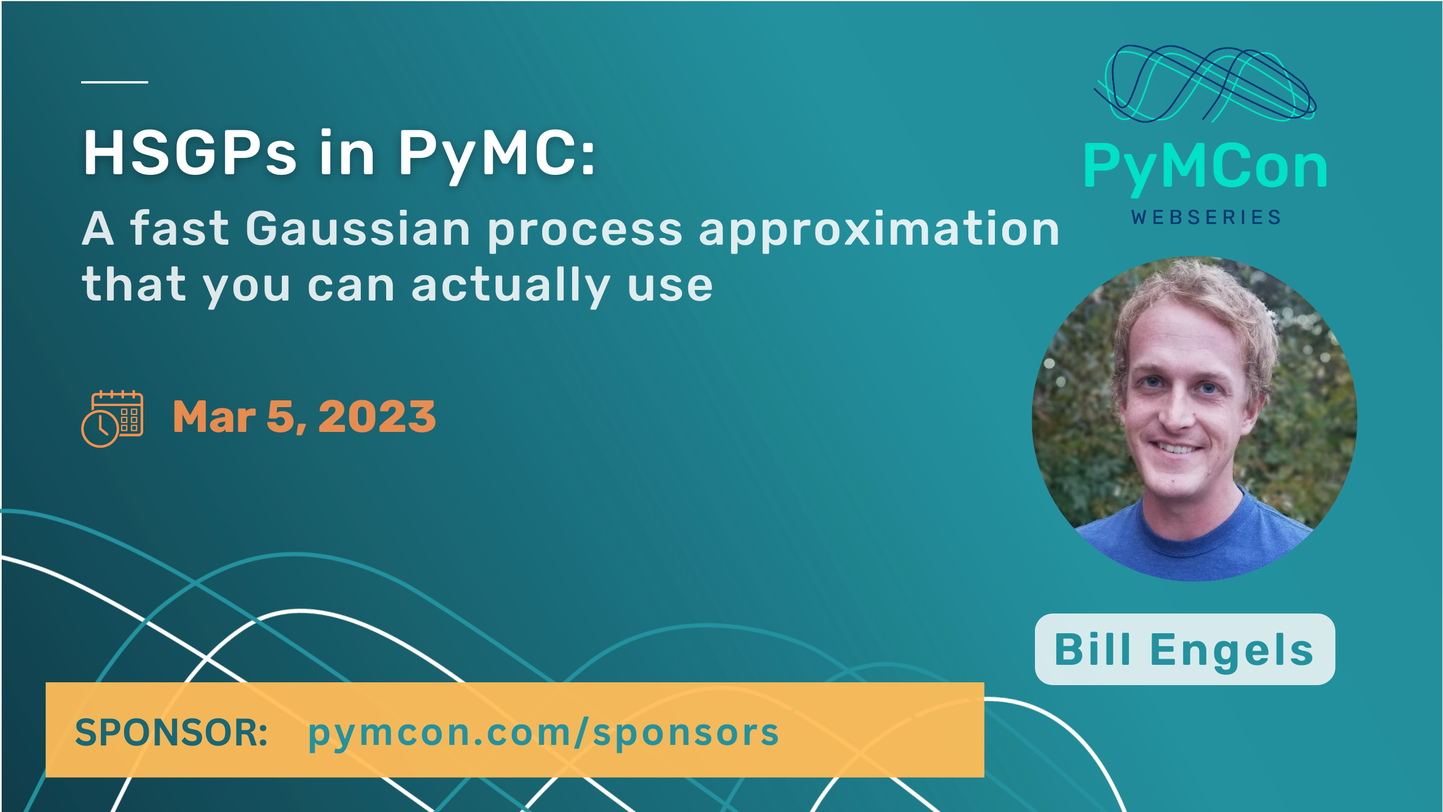
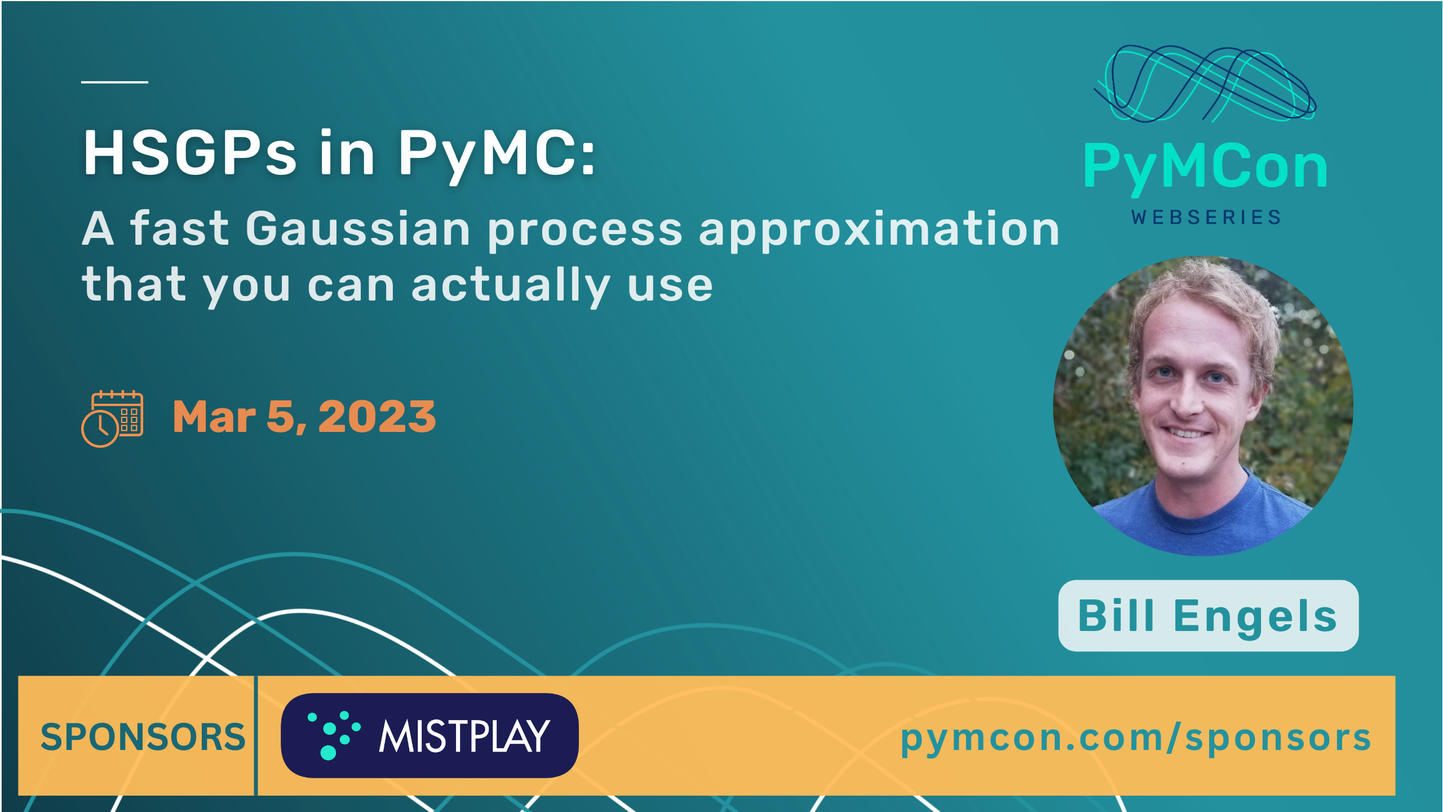
deploy: 1f3b7e2830f09dddaec6aa68d3b62c5098396a55

Changed region(s): [[0.0, 0.3125, 0.9688, 1.0]]

diff --git a/index.html b/index.html
@@ -6,11 +6,11 @@ Skip to main content
 <button id=close-menu-btn aria-label="Close Menu"><i class="uil uil-multiply"></i></button></div></nav></header><div id=main-content></div><header class=header><div class="container header__container"><div class=header__left><h1>PyMCon Web Series</h1><p>An Asynchronous-first virtual conference for the Bayesian community</p><p>We believe in building a community as much as we believe in building code. Come and join with us!</p><a href=https://pymcon.com/cfp/ class="btn btn-primary">Submit a Proposal</a></div><div class=header_right><div class=rocket><img src=./images/pymc-logo-350.png alt></div><div class=pulse><span style=--delay:1></span>
 <span style=--delay:2></span>
 <span style=--delay:3></span>
-<span style=--delay:4></span></div></div></div></header><section class="section events" id=featured_events><h2>PyMCon Events</h2><div class="container events__container"><div class="swiper eventCardSlider"><div class=swiper-wrapper><article class="event__card swiper-slide"><div class=event__header><img src=./images/events/pymcon-danh-phan.png alt><div class=event__wrapper><h4>Feb 21 2023, 22:00 UTC</h4><h3>An Introduction To Multi-Output Gaussian Processes Using PyMC</h3><span><i class="uil uil-map-marker"></i>Online</span></div></div><div class=event__details><p>The talk aims to get users quickly up and performing GPs, especially multi-output GPs using PyMC. Several examples with time-series datasets are used to illustrate different GPs features. This presentation will allow users to leverage GPs to analyze their data effectively.</p></div><div class=speaker__info><a href=https://www.linkedin.com/in/danhpt/ target=_blank><img src=./images/speakers/DanhPhan.jpg alt>
-<em>Danh Phan</em></a></div></article><article class="event__card swiper-slide"><div class=event__header><img src=./images/events/pymcon-bill-engels.png alt><div class=event__wrapper><h4>Mar 5 2023</h4><h3>HSGPs in PyMC: A fast Gaussian process approximation that you can actually use</h3><span><i class="uil uil-map-marker"></i>Online</span></div></div><div class=event__details><p>In this talk, Bill will introduce a PyMC Hilbert Space Gaussian Process (HSGP) implementation and show via case studies how it fills a few key gaps in the PyMC GP library: fast GPs as model subcomponents, and fast GPs with non-Gaussian likelihoods. I&rsquo;ll also cover tips and tricks for applying HSGPs effectively in practice.</p></div><div class=speaker__info><a href=https://www.linkedin.com/in/bill-engels-a5239a119/ target=_blank><img src=./images/speakers/bill-engels.jpg alt>
+<span style=--delay:4></span></div></div></div></header><section class="section events" id=featured_events><h2>PyMCon Events</h2><div class="container events__container"><div class="swiper eventCardSlider"><div class=swiper-wrapper><article class="event__card swiper-slide"><a href=https://discourse.pymc.io/t/pymcon-web-series-an-introduction-to-multi-output-gaussian-processes-using-pymc-feb-21st-10-pm-utc-2023/11395 target=_blank style=display:block;height:fit-content><div class=event__header><img src=./images/events/pymcon-danh-phan.png alt><div class=event__wrapper><h4>Feb 21 2023, 22:00 UTC</h4><h3>An Introduction To Multi-Output Gaussian Processes Using PyMC</h3><span><i class="uil uil-map-marker"></i>Online</span></div></div><div class=event__details><p>The talk aims to get users quickly up and performing GPs, especially multi-output GPs using PyMC. Several examples with time-series datasets are used to illustrate different GPs features. This presentation will allow users to leverage GPs to analyze their data effectively.</p></div></a><div class=speaker__info><a href=https://www.linkedin.com/in/danhpt/ target=_blank><img src=./images/speakers/DanhPhan.jpg alt>
+<em>Danh Phan</em></a></div><a href=https://discourse.pymc.io/t/pymcon-web-series-an-introduction-to-multi-output-gaussian-processes-using-pymc-feb-21st-10-pm-utc-2023/11395 target=_blank class="btn event__btn">Learn More</a></article><article class="event__card swiper-slide"><div class=event__header><img src=./images/events/pymcon-bill-engels.png alt><div class=event__wrapper><h4>Mar 5 2023</h4><h3>HSGPs in PyMC: A fast Gaussian process approximation that you can actually use</h3><span><i class="uil uil-map-marker"></i>Online</span></div></div><div class=event__details><p>In this talk, Bill will introduce a PyMC Hilbert Space Gaussian Process (HSGP) implementation and show via case studies how it fills a few key gaps in the PyMC GP library: fast GPs as model subcomponents, and fast GPs with non-Gaussian likelihoods. I&rsquo;ll also cover tips and tricks for applying HSGPs effectively in practice.</p></div><div class=speaker__info><a href=https://www.linkedin.com/in/bill-engels-a5239a119/ target=_blank><img src=./images/speakers/bill-engels.jpg alt>
 <em>Bill Engels</em></a></div></article><article class="event__card swiper-slide"><div class=event__header><img src=./images/events/pymcon-sandra-meneses.png alt><div class=event__wrapper><h4>Mar 15 2023</h4><h3>Scalable Bayesian Modelling: A practical comparison</h3><span><i class="uil uil-map-marker"></i>Online</span></div></div><div class=event__details><p>Let&rsquo;s dig deep into the new options that PyMC has to boost its performance comparing it with other Probabilistic programming frameworks. You will see how to get adequate performance for use cases with large datasets in production.</p></div><div class=speaker__info><a href=https://www.linkedin.com/in/symeneses/ target=_blank><img src=./images/speakers/sandra_meneses.jpg alt>
 <em>Sandra Yojana Meneses</em></a></div></article><article class="event__card swiper-slide"><div class=event__header><img src=./images/events/pymcon-hyosub-kim.png alt><div class=event__wrapper><h4>Apr 2 2023</h4><h3>The Bayesian Statistics Toolbox: Building a robust, replicable Bayesian workflow for the behavioral and neural sciences</h3><span><i class="uil uil-map-marker"></i>Online</span></div></div><div class=event__details><p></p></div><div class=speaker__info><a href=https://osf.io/y75ud/wiki/home/ target=_blank><img src=./images/speakers/hyosub_kim.jpeg alt>
-<em>Hyosub Kim</em></a></div></article><article class="event__card swiper-slide"><a href=https://discourse.pymc.io/t/pymcon-web-series-the-power-of-bayes-in-industry-your-business-model-is-your-data-generating-process/11264 target=_blank style=display:block;height:fit-content><div class=event__header><img src=./images/events/pymcon-Dante.jpeg alt><div class=event__wrapper><h4>Feb 9 2023, 21:00 UTC (4pm ET)</h4><h3>The Power of Bayes in Industry: Your Business Model is Your Data Generating Process</h3><span><i class="uil uil-map-marker"></i>Online</span></div></div><div class=event__details><p>This talk will attempt to answer the question what is a Data Generating Process and why does it matter? While we will begin our discussion with a bit of theory, don&rsquo;t worry about this being too technical or inaccessible if you&rsquo;re new to Bayesian Statistics. Our primary goal is to focus on the second half of the question and give you tools to use for real-world applications.</p></div></a><div class=speaker__info><a href=https://www.linkedin.com/in/dante-gates/ target=_blank><img src=./images/speakers/dante-gates-hs.png alt>
+<em>Hyosub Kim</em></a></div></article><article class="event__card swiper-slide"><a href=https://discourse.pymc.io/t/pymcon-web-series-the-power-of-bayes-in-industry-your-business-model-is-your-data-generating-process/11264 target=_blank style=display:block;height:fit-content><div class=event__header><img src=./images/events/pymcon-dante-gates.png alt><div class=event__wrapper><h4>Feb 9 2023, 21:00 UTC (4pm ET)</h4><h3>The Power of Bayes in Industry: Your Business Model is Your Data Generating Process</h3><span><i class="uil uil-map-marker"></i>Online</span></div></div><div class=event__details><p>This talk will attempt to answer the question what is a Data Generating Process and why does it matter? While we will begin our discussion with a bit of theory, don&rsquo;t worry about this being too technical or inaccessible if you&rsquo;re new to Bayesian Statistics. Our primary goal is to focus on the second half of the question and give you tools to use for real-world applications.</p></div></a><div class=speaker__info><a href=https://www.linkedin.com/in/dante-gates/ target=_blank><img src=./images/speakers/dante-gates-hs.png alt>
 <em>Dante Gates</em></a></div><a href=https://discourse.pymc.io/t/pymcon-web-series-the-power-of-bayes-in-industry-your-business-model-is-your-data-generating-process/11264 target=_blank class="btn event__btn">Learn More</a></article></div><div class="swiper-pagination event-pagination"></div></div></div></section><section class="section golas"><div class="container golas__container"><div class=golas__left><h2>OUR GOALS</h2><p>We believe that the PyMC project is more than just a codebase. It is also a community that is interested not only in statistical methods and code, but also in sharing knowledge and helping others - whether they be Bayesian veterans or new to the world of open source. The purpose of this conference is to better our community, just as we better our code .</p><a href=https://pymcon.com/about/ class=btn>Learn More</a></div><div class=golas__right><article class=goal><span class=goal__icon><i class="uil uil-crosshair"></i></span><h3>Create a space</h3><p>Create a space and time for community members to meet each other & interact</p></article><article class=goal><span class=goal__icon><i class="uil uil-crosshair"></i></span><h3>Record & organize</h3><p>Record and organize the expertise and experience in the PyMC community</p></article><article class=goal><span class=goal__icon><i class="uil uil-crosshair"></i></span><h3>Enable contributions</h3><p>Help folks find ways to contribute to PyMC, authentic to themselves</p></article><article class=goal><span class=goal__icon><i class="uil uil-crosshair"></i></span><h3>Develop the community</h3><p>Helps folks learn and grow</p></article></div></div></section><section class="section subscribe"><div class="container subscribe__container"><div class=subscribe__text><h2>Join the PyMC Discourse to stay updated</h2><p>Other than this website the place to stay updated is the PyMC Discourse.
 All the latest announcements will be shared there</p></div><a href=https://discourse.pymc.io/c/events/pymcon-web-series/23 class="btn subscribe__btn">Take me to the Discourse</a></div></section><section class="section supports" id=donate_support><h2>Support/Donations</h2><p>The donations will be handled by NumFOCUS which is 501(c)(3) non profit and manages all finances for PyMC</p><div class="container supports__container"><article class=support><span class=support__icon><i class="fas fa-hand-holding-heart"></i></span><h3>PyMC Open Collective</h3><span class=support__info>Payment Options:</span><p>Credit Card</p><span class=support__info>Pros:</span><p>Your company name appears as a donor</p><a href=https://opencollective.com/pymc target=_blank class=donate__btn>Donate Now</a></article><article class=support><span class=support__icon><i class="fas fa-parachute-box"></i></span><h3>NumFOCUS</h3><span class=support__info>Payment Options:</span><p>Credit Card, eCheck, PayPal</p><span class=support__info>Pros:</span><p>Your name appears in annual report</p><a href=https://numfocus.org/donate-to-pymc target=_blank class=donate__btn>Donate Now</a></article><article class=support><span class=support__icon><i class="fas fa-handshake"></i></span><h3>Benevity</h3><p>If your company uses Benevity, please consider making a contribution to the PyMC project.</p><p><span class=support__info>Note:</span> This link is viewable for registered users of Benevity</p><a href=https://causes.benevity.org/causes/840-454547709/project/4M4BXZF5F1 target=_blank class=donate__btn>Donate Now</a></article><article class=support><span class=support__icon><i class="fas fa-gift"></i></span><h3>Support</h3><p>You can also support the PyMC project by purchasing swag from our official store. All net proceeds go to the project.</p><a href="https://numfocus.myspreadshop.com/pymc+official+logo?idea=61f03c1df33f941d0307b965" target=_blank class=donate__btn>Buy Now</a></article></div></section><footer class=footer id=footer><div class=container></div><div class="container footer__container"><div class=footer__1><div class=footer__logo><img src=./images/pymcon_logo_white.png alt></div><p>PyMCon is a totally volunteer run conference with help from people like you.</p></div><div class=footer__2><h2>Permalinks</h2><ul class=permalinks><li><a href=./cfp/>CFP</a></li><li><a href=./events/>Events</a></li><li><a href=./codeofconduct/>Code of Conduct</a></li></ul></div><div class=footer__3><h2>Useful Links</h2><ul class=permalinks><li><a href=https://pymc-devs.github.io/pymcon target=_blank>PyMCon 2020 events</a></li><li><a href=https://github.com/pymc-devs/pymcon_web_series_website target=_blank>GitHub repository</a></li><li><a href=https://github.com/pymc-devs/brand target=_blank>Logo & Branding guide</a></li></ul></div><div class=footer__4><h2>Follow Us</h2><ul class=footer__socials><li><a href=https://discourse.pymc.io/c/events/pymcon-web-series/23 target=_blank aria-label="PyMC discourse"><i class="uil uil-comment-alt-lines"></i></a></li><li><a href=https://twitter.com/pymc_devs target=_blank aria-label="PyMC twitter account"><i class="uil uil-twitter"></i></a></li><li><a href=https://www.linkedin.com/company/pymc target=_blank aria-label="PyMC linkedin page"><i class="uil uil-linkedin-alt"></i></a></li><li><a href=https://www.youtube.com/c/PyMCDevelopers target=_blank aria-label="PyMC youtube channel"><i class="uil uil-youtube"></i></a></li><li><a href=https://github.com/pymc-devs/pymcon_web_series_website target=_blank aria-label="PyMC github"><i class="uil uil-github"></i></a></li><li><a href=https://www.meetup.com/pymc-online-meetup/ target=_blank aria-label="PyMC meetup group"><i class="fa fa-meetup"></i></a></li></ul></div></div><div class=footer__copyright><small>&copy; 2022 PyMC Team</small></div></footer><script type=text/javascript src=https://pymcon.com/js/main.js></script>
 <script src=./js/animation_script.js></script>

diff --git a/events/index.html b/events/index.html
@@ -3,11 +3,11 @@
 <link rel=apple-touch-icon sizes=180x180 href=../images/favicon/apple-touch-icon.png><link rel=icon type=image/png sizes=32x32 href=../images/favicon/favicon-32x32.png><link rel=icon type=image/png sizes=16x16 href=../images/favicon/favicon-16x16.png><link rel=manifest href=../images/favicon/site.webmanifest><meta property="og:title" content="PyMCon Events"><meta property="og:description" content="Join us to explore the cutting-edge development of PyMC, with talks from industry leaders and ample opportunity to connect with like-minded individuals. Don't miss out on this exciting event!"><meta property="og:type" content="article"><meta property="og:url" content="https://pymcon.com/events/"><meta property="og:image" content="https://pymcon.com/images/pymcon-logo-color.png"><meta property="article:section" content><meta property="og:site_name" content="PyMCon Web Series"><meta name=twitter:card content="summary_large_image"><meta name=twitter:image content="https://pymcon.com/images/pymcon-logo-color.png"><meta name=twitter:title content="PyMCon Events"><meta name=twitter:description content="Join us to explore the cutting-edge development of PyMC, with talks from industry leaders and ample opportunity to connect with like-minded individuals. Don't miss out on this exciting event!"><meta name=twitter:site content="@pymc_devs"><script type=application/ld+json>[{"@context":"https://schema.org","@type":"Article","articleSection":"PyMCon Web Series","name":"PyMCon Events","headline":"PyMCon Events","description":"Join us to explore the cutting-edge development of PyMC, with talks from industry leaders and ample opportunity to connect with like-minded individuals. Don\u0027t miss out on this exciting event!","inLanguage":"en-au","url":"https:\/\/pymcon.com\/events\/","author":{"@type":"Person","name":"PyMCon Team"},"mainEntityOfPage":"true","wordCount":"0"}]</script><meta name=author content="PyMCon Team"><link rel=stylesheet href=https://pymcon.com/css/main.css><link rel=stylesheet href=https://unicons.iconscout.com/release/v2.1.5/css/unicons.css><link rel=preconnect href=https://fonts.googleapis.com><link rel=preconnect href=https://fonts.gstatic.com crossorigin><link rel=stylesheet href='https://fonts.googleapis.com/css2?family=Montserrat:wght@300;400;500;600;700;800;900&display=swap'><link rel=stylesheet href=https://cdn.jsdelivr.net/npm/swiper@8/swiper-bundle.min.css><link rel=stylesheet href=https://cdnjs.cloudflare.com/ajax/libs/font-awesome/4.7.0/css/font-awesome.min.css><link rel=stylesheet href=../css/events.css><style>body{background-image:url(/images/bg-texture.png)}</style></head><body><div id=the-top><a href=#main-content class=skip_to_main><i class="uil uil-arrow-down"></i>
 Skip to main content
 <i class="uil uil-arrow-down"></i></a></div><header class="py-6 sm:py-10"><nav class=nav><div class="container nav__container"><div class=pymcon__logo><a href=../><img src=../images/pymcon-logo.png alt="PyMCon Logo"></a></div><ul class=nav__menu><li><a href=../about/>About</a></li><li><a href=../cfp/>CFP</a></li><li><a href=../events/>Events</a></li><li><a href=../organizers/>Organizers</a></li><li><a href=../faq/>FAQs</a></li><li><a href=../sponsors/>Sponsors</a></li><li><a href=../contact/>Contact</a></li><li><a href=../codeofconduct/>Code of Conduct</a></li></ul><button id=open-menu-btn aria-label="Open Menu"><i class="uil uil-bars"></i></button>
-<button id=close-menu-btn aria-label="Close Menu"><i class="uil uil-multiply"></i></button></div></nav></header><div id=main-content></div><header class=small__header><div class="container small__header__container"><div class=small__header__left><h1>PyMCon Events</h1><p>Join us to explore the cutting-edge development of PyMC, with talks from industry leaders and ample opportunity to connect with like-minded individuals. Don't miss out on this exciting event!</p></div><div class=small__header__right><div class=small__header__right-image><img src=../images/events.svg alt></div></div></div></header><section class="section events" id=pymcon_events><div class="container events__container"><div class=event__cards><h2 id=all_events>All Events</h2><h2 id=upcoming_events>Upcoming Events</h2><h2 id=past_events>Past Events</h2><article class="event__card upcoming"><div class=event__header><div class=event__wrapper><h4>Feb 21 2023, 22:00 UTC</h4><h3>An Introduction To Multi-Output Gaussian Processes Using PyMC</h3><span><i class="uil uil-map-marker"></i>Online</span></div><img src=../images/events/pymcon-danh-phan.png alt></div><div class=event__details><p>The talk aims to get users quickly up and performing GPs, especially multi-output GPs using PyMC. Several examples with time-series datasets are used to illustrate different GPs features. This presentation will allow users to leverage GPs to analyze their data effectively.</p></div><div class=speaker__info><a href=https://www.linkedin.com/in/danhpt/ target=_blank><img src=../images/speakers/DanhPhan.jpg alt>
-<em>Danh Phan</em></a></div></article><article class="event__card upcoming"><div class=event__header><div class=event__wrapper><h4>Mar 5 2023</h4><h3>HSGPs in PyMC: A fast Gaussian process approximation that you can actually use</h3><span><i class="uil uil-map-marker"></i>Online</span></div><img src=../images/events/pymcon-bill-engels.png alt></div><div class=event__details><p>In this talk, Bill will introduce a PyMC Hilbert Space Gaussian Process (HSGP) implementation and show via case studies how it fills a few key gaps in the PyMC GP library: fast GPs as model subcomponents, and fast GPs with non-Gaussian likelihoods. I&rsquo;ll also cover tips and tricks for applying HSGPs effectively in practice.</p></div><div class=speaker__info><a href=https://www.linkedin.com/in/bill-engels-a5239a119/ target=_blank><img src=../images/speakers/bill-engels.jpg alt>
+<button id=close-menu-btn aria-label="Close Menu"><i class="uil uil-multiply"></i></button></div></nav></header><div id=main-content></div><header class=small__header><div class="container small__header__container"><div class=small__header__left><h1>PyMCon Events</h1><p>Join us to explore the cutting-edge development of PyMC, with talks from industry leaders and ample opportunity to connect with like-minded individuals. Don't miss out on this exciting event!</p></div><div class=small__header__right><div class=small__header__right-image><img src=../images/events.svg alt></div></div></div></header><section class="section events" id=pymcon_events><div class="container events__container"><div class=event__cards><h2 id=all_events>All Events</h2><h2 id=upcoming_events>Upcoming Events</h2><h2 id=past_events>Past Events</h2><article class="event__card upcoming"><a href=https://discourse.pymc.io/t/pymcon-web-series-an-introduction-to-multi-output-gaussian-processes-using-pymc-feb-21st-10-pm-utc-2023/11395 target=_blank style=display:block;height:100%><div class=event__header><div class=event__wrapper><h4>Feb 21 2023, 22:00 UTC</h4><h3>An Introduction To Multi-Output Gaussian Processes Using PyMC</h3><span><i class="uil uil-map-marker"></i>Online</span></div><img src=../images/events/pymcon-danh-phan.png alt></div><div class=event__details><p>The talk aims to get users quickly up and performing GPs, especially multi-output GPs using PyMC. Several examples with time-series datasets are used to illustrate different GPs features. This presentation will allow users to leverage GPs to analyze their data effectively.</p></div></a><div class=speaker__info><a href=https://www.linkedin.com/in/danhpt/ target=_blank><img src=../images/speakers/DanhPhan.jpg alt>
+<em>Danh Phan</em></a></div><a href=https://discourse.pymc.io/t/pymcon-web-series-an-introduction-to-multi-output-gaussian-processes-using-pymc-feb-21st-10-pm-utc-2023/11395 target=_blank class="btn event__btn">Learn More</a></article><article class="event__card upcoming"><div class=event__header><div class=event__wrapper><h4>Mar 5 2023</h4><h3>HSGPs in PyMC: A fast Gaussian process approximation that you can actually use</h3><span><i class="uil uil-map-marker"></i>Online</span></div><img src=../images/events/pymcon-bill-engels.png alt></div><div class=event__details><p>In this talk, Bill will introduce a PyMC Hilbert Space Gaussian Process (HSGP) implementation and show via case studies how it fills a few key gaps in the PyMC GP library: fast GPs as model subcomponents, and fast GPs with non-Gaussian likelihoods. I&rsquo;ll also cover tips and tricks for applying HSGPs effectively in practice.</p></div><div class=speaker__info><a href=https://www.linkedin.com/in/bill-engels-a5239a119/ target=_blank><img src=../images/speakers/bill-engels.jpg alt>
 <em>Bill Engels</em></a></div></article><article class="event__card upcoming"><div class=event__header><div class=event__wrapper><h4>Mar 15 2023</h4><h3>Scalable Bayesian Modelling: A practical comparison</h3><span><i class="uil uil-map-marker"></i>Online</span></div><img src=../images/events/pymcon-sandra-meneses.png alt></div><div class=event__details><p>Let&rsquo;s dig deep into the new options that PyMC has to boost its performance comparing it with other Probabilistic programming frameworks. You will see how to get adequate performance for use cases with large datasets in production.</p></div><div class=speaker__info><a href=https://www.linkedin.com/in/symeneses/ target=_blank><img src=../images/speakers/sandra_meneses.jpg alt>
 <em>Sandra Yojana Meneses</em></a></div></article><article class="event__card upcoming"><div class=event__header><div class=event__wrapper><h4>Apr 2 2023</h4><h3>The Bayesian Statistics Toolbox: Building a robust, replicable Bayesian workflow for the behavioral and neural sciences</h3><span><i class="uil uil-map-marker"></i>Online</span></div><img src=../images/events/pymcon-hyosub-kim.png alt></div><div class=event__details><p></p></div><div class=speaker__info><a href=https://osf.io/y75ud/wiki/home/ target=_blank><img src=../images/speakers/hyosub_kim.jpeg alt>
-<em>Hyosub Kim</em></a></div></article><article class="event__card past"><a href=https://discourse.pymc.io/t/pymcon-web-series-the-power-of-bayes-in-industry-your-business-model-is-your-data-generating-process/11264 target=_blank style=display:block;height:100%><div class=event__header><div class=event__wrapper><h4>Feb 9 2023, 21:00 UTC (4pm ET)</h4><h3>The Power of Bayes in Industry: Your Business Model is Your Data Generating Process</h3><span><i class="uil uil-map-marker"></i>Online</span></div><img src=../images/events/pymcon-Dante.jpeg alt></div><div class=event__details><p>This talk will attempt to answer the question what is a Data Generating Process and why does it matter? While we will begin our discussion with a bit of theory, don&rsquo;t worry about this being too technical or inaccessible if you&rsquo;re new to Bayesian Statistics. Our primary goal is to focus on the second half of the question and give you tools to use for real-world applications.</p></div></a><div class=speaker__info><a href=https://www.linkedin.com/in/dante-gates/ target=_blank><img src=../images/speakers/dante-gates-hs.png alt>
+<em>Hyosub Kim</em></a></div></article><article class="event__card past"><a href=https://discourse.pymc.io/t/pymcon-web-series-the-power-of-bayes-in-industry-your-business-model-is-your-data-generating-process/11264 target=_blank style=display:block;height:100%><div class=event__header><div class=event__wrapper><h4>Feb 9 2023, 21:00 UTC (4pm ET)</h4><h3>The Power of Bayes in Industry: Your Business Model is Your Data Generating Process</h3><span><i class="uil uil-map-marker"></i>Online</span></div><img src=../images/events/pymcon-dante-gates.png alt></div><div class=event__details><p>This talk will attempt to answer the question what is a Data Generating Process and why does it matter? While we will begin our discussion with a bit of theory, don&rsquo;t worry about this being too technical or inaccessible if you&rsquo;re new to Bayesian Statistics. Our primary goal is to focus on the second half of the question and give you tools to use for real-world applications.</p></div></a><div class=speaker__info><a href=https://www.linkedin.com/in/dante-gates/ target=_blank><img src=../images/speakers/dante-gates-hs.png alt>
 <em>Dante Gates</em></a></div><a href=https://discourse.pymc.io/t/pymcon-web-series-the-power-of-bayes-in-industry-your-business-model-is-your-data-generating-process/11264 target=_blank class="btn event__btn">Learn More</a></article></div><div class=events_btn_container id=eventBtnContainer><button class=active onclick='filterSelection("all"),scrollToEventView()'>All Events</button>
 <button onclick='filterSelection("upcoming"),scrollToEventView()'>Upcoming Events</button>
 <button onclick='filterSelection("past"),scrollToEventView()'>Past Events</button></div></div></section><hr class=footer_line><footer class=footer id=footer><div class=container><div class=pt-0><hr class="border-dotted border-neutral-300 dark:border-neutral-600"><div class="flex justify-between pt-3"><span><a class="flex group" href=../cfp/><span class="mr-3 ltr:inline rtl:hidden text-neutral-700 dark:text-neutral group-hover:text-primary-600 dark:group-hover:text-primary-400">&larr;</span>

diff --git a/sponsors/index.html b/sponsors/index.html
@@ -13,7 +13,7 @@ documentation or community.</p><p>Our project roadmap is looking for funding for
                </li><li>Adding more features in terms of improved inference, visualization, statistical methods</li><li>Operational costs such as design (logos), Matomo, GitHub, etc.</li><li>Supporting students with stipends for contributions. Examples of student contributions include the
 Gaussian Processes and ADVI modules.</li></ul></div><div class=social_reach_right><table class=social_reach_table><caption><strong>PyMC Social Media Reach (<em>Updated: 2022-11-30</em> )</strong></caption><thead><tr><th>Platform</th><th>Reach</th></tr></thead><tbody><tr><td><a href=https://discourse.pymc.io/about target=_blank><i class="uil uil-comment-alt-lines"></i> Discourse Q&A/Discussion
                     </a></td><td>30,000+ posts<br>2,933 users</td></tr><tr><td><a href=https://twitter.com/pymc_devs target=_blank><i class="uil uil-twitter"></i> Twitter</a></td><td>4900 followers</td></tr><tr><td><a href=https://www.linkedin.com/company/pymc target=_blank><i class="uil uil-linkedin-alt"></i> LinkedIn</a></td><td>989 followers</td></tr><tr><td><a href=https://www.youtube.com/c/PyMCDevelopers target=_blank><i class="uil uil-youtube"></i> YouTube</a></td><td>1,540 subscribers<br>51,000 + views</td></tr><tr><td><a href=https://www.meetup.com/pymc-online-meetup/ target=_blank><i class="fa fa-meetup"></i> Meetup</a></td><td>269 members</td></tr><tr><td><a href=https://github.com/pymc-devs/pymcon_web_series_website target=_blank><i class="uil uil-github"></i> GitHub</a></td><td>7200 stars</td></tr></tbody></table></div></div></section><section class="section sponsorship_levels" id=pymcon_sponsorship_levels><h2>PyMCon Sponsorship Levels</h2><div class=container><table class=levels_container><tr><th class=hide></th><th class=bg-purple>No U-Turn Sampler</th><th class=bg-blue>Hamiltonian Monte Carlo</th><th class=bg-red>Metropolis-Hastings</th><th class=bg-green>Conjugate Model</th></tr><tr><td><span class=txt-2>Sponsorship Category</span></td><td><span class=txt-2><a href=https://pymcon.com/contact/>Contact us for custom sponsorships</a></span></td><td><span class=txt-top>$</span><span class=txt-l>5,000</span></td><td><span class=txt-top>$</span><span class=txt-l>2,000</span></td><td><span class=txt-top>$</span><span class=txt-l>1,000</span></td></tr><tr><td>Tier</td><td><span>Platinum</span></td><td><span>Gold</span></td><td><span>Silver</span></td><td><span>Bronze</span></td></tr><tr><td>Top billing logo positioning on YouTube thumbnail</td><td><i class="fa fa-check"></i></td><td><i class="fa fa-remove"></i></td><td><i class="fa fa-remove"></i></td><td><i class="fa fa-remove"></i></td></tr><tr><td>Sponsor webinar with Q&A</td><td><i class="fa fa-check"></i></td><td><i class="fa fa-check"></i></td><td><i class="fa fa-remove"></i></td><td><i class="fa fa-remove"></i></td></tr><tr><td>Logo on the <a href=https://www.pymc.io/welcome.html target=_blank>PyMC main website </a>(for 6
-months)</td><td><i class="fa fa-check"></i></td><td><i class="fa fa-check"></i></td><td><i class="fa fa-check"></i></td><td><i class="fa fa-remove"></i></td></tr><tr><td>Share job postings on PyMC social media (Twitter, LinkedIn)</td><td><i class="fa fa-check"></i></td><td><i class="fa fa-check"></i></td><td><i class="fa fa-check"></i></td><td><i class="fa fa-check"></i></td></tr><tr><td>Logo on the PyMCon website (Ordered by tier)</td><td><i class="fa fa-check"></i></td><td><i class="fa fa-check"></i></td><td><i class="fa fa-check"></i></td><td><i class="fa fa-check"></i></td></tr></tbody></table></div></section><section class="section our_sponsors" id=pymcon_sponsors><h1>PyMCon 2020 Sponsors</h1><hr><div class="container our_sponsors__container"><div id=metropolis-hastings-tier><h2>Metropolis-Hastings Tier</h2><div class=sponsor_logo><a href=https://tidelift.com/ target=_blank><img src=../images/sponsors_logos/tidelift_primary_logo.jpg alt="Tidelift logo"></a></div><div class=sponsor_logo><a href=https://point72.com/ target=_blank><img src=../images/sponsors_logos/p72_main_logo.jpg alt="Point72 logo"></a></div><div class=sponsor_logo><a href=https://pymc-labs.io/ target=_blank><img src=../images/sponsors_logos/pymc_labs_logo.jpg alt="PyMC Labs logo"></a></div></div><div id=communitypartner><h2>Community Partners</h2><div class=sponsor_logo><a href=http://ghana.pyladies.com/ target=_blank><img src=../images/sponsors_logos/pyladies_ghana_logo.jpg alt="Pyladies Ghana logo"></a></div></div><div id=techpartner><h2>Technology Partners</h2><div class=sponsor_logo><a href=https://zulip.com/ target=_blank><img src=../images/sponsors_logos/zulip_org_logo.jpg alt="Zulip logo"></a></div></div><div id=nonprofitsponsor><h2>Non-profit Sponsors</h2><div class=sponsor_logo><a href=https://numfocus.org/ target=_blank><img src=../images/sponsors_logos/num_focus_logo.jpg alt="NumFOCUS logo"></a></div></div></div></section><footer class=footer id=footer><div class=container><div class=pt-0><hr class="border-dotted border-neutral-300 dark:border-neutral-600"><div class="flex justify-between pt-3"><span><a class="flex group" href=../faq/><span class="mr-3 ltr:inline rtl:hidden text-neutral-700 dark:text-neutral group-hover:text-primary-600 dark:group-hover:text-primary-400">&larr;</span>
+months)</td><td><i class="fa fa-check"></i></td><td><i class="fa fa-check"></i></td><td><i class="fa fa-check"></i></td><td><i class="fa fa-remove"></i></td></tr><tr><td>Share job postings on PyMC social media (Twitter, LinkedIn)</td><td><i class="fa fa-check"></i></td><td><i class="fa fa-check"></i></td><td><i class="fa fa-check"></i></td><td><i class="fa fa-check"></i></td></tr><tr><td>Logo on the PyMCon website (Ordered by tier)</td><td><i class="fa fa-check"></i></td><td><i class="fa fa-check"></i></td><td><i class="fa fa-check"></i></td><td><i class="fa fa-check"></i></td></tr></tbody></table></div></section><section class="section our_sponsors" id=pymcon_sponsors><h1>PyMCon 2023 Sponsors</h1><hr><div class="container our_sponsors__container"><div id=hamiltonian-monte-carlo-tier><h2>Hamiltonian Monte Carlo</h2><div class=sponsor_logo><a href=https://www.mistplay.com/ target=_blank><img src=../images/sponsors_logos/mistplay_label_dark.png alt="Mistplay logo"></a></div></div><div id=nonprofitsponsor><h2>Non-profit Sponsors</h2><div class=sponsor_logo><a href=https://numfocus.org/ target=_blank><img src=../images/sponsors_logos/num_focus_logo.jpg alt="NumFOCUS logo"></a></div></div></div></section><section class="section our_sponsors" id=pymcon_sponsors><h1>PyMCon 2020 Sponsors</h1><hr><div class="container our_sponsors__container"><div id=metropolis-hastings-tier><h2>Metropolis-Hastings Tier</h2><div class=sponsor_logo><a href=https://tidelift.com/ target=_blank><img src=../images/sponsors_logos/tidelift_primary_logo.jpg alt="Tidelift logo"></a></div><div class=sponsor_logo><a href=https://point72.com/ target=_blank><img src=../images/sponsors_logos/p72_main_logo.jpg alt="Point72 logo"></a></div><div class=sponsor_logo><a href=https://pymc-labs.io/ target=_blank><img src=../images/sponsors_logos/pymc_labs_logo.jpg alt="PyMC Labs logo"></a></div></div><div id=communitypartner><h2>Community Partners</h2><div class=sponsor_logo><a href=http://ghana.pyladies.com/ target=_blank><img src=../images/sponsors_logos/pyladies_ghana_logo.jpg alt="Pyladies Ghana logo"></a></div></div><div id=techpartner><h2>Technology Partners</h2><div class=sponsor_logo><a href=https://zulip.com/ target=_blank><img src=../images/sponsors_logos/zulip_org_logo.jpg alt="Zulip logo"></a></div></div><div id=nonprofitsponsor><h2>Non-profit Sponsors</h2><div class=sponsor_logo><a href=https://numfocus.org/ target=_blank><img src=../images/sponsors_logos/num_focus_logo.jpg alt="NumFOCUS logo"></a></div></div></div></section><footer class=footer id=footer><div class=container><div class=pt-0><hr class="border-dotted border-neutral-300 dark:border-neutral-600"><div class="flex justify-between pt-3"><span><a class="flex group" href=../faq/><span class="mr-3 ltr:inline rtl:hidden text-neutral-700 dark:text-neutral group-hover:text-primary-600 dark:group-hover:text-primary-400">&larr;</span>
 <span class="ml-3 ltr:hidden rtl:inline text-neutral-700 dark:text-neutral group-hover:text-primary-600 dark:group-hover:text-primary-400">&rarr;</span>
 <span class="flex flex-col"><span class="mt-[0.1rem] leading-6 group-hover:underline group-hover:decoration-white-500">Frequently Asked Questions</span>
 <span class="mt-[0.1rem] text-xs text-neutral-500 dark:text-neutral-400"></span></span></a></span><span><a class="flex text-right group" href=../contact/><span class="flex flex-col"><span class="mt-[0.1rem] leading-6 group-hover:underline group-hover:decoration-white-500">Contact Us</span>
